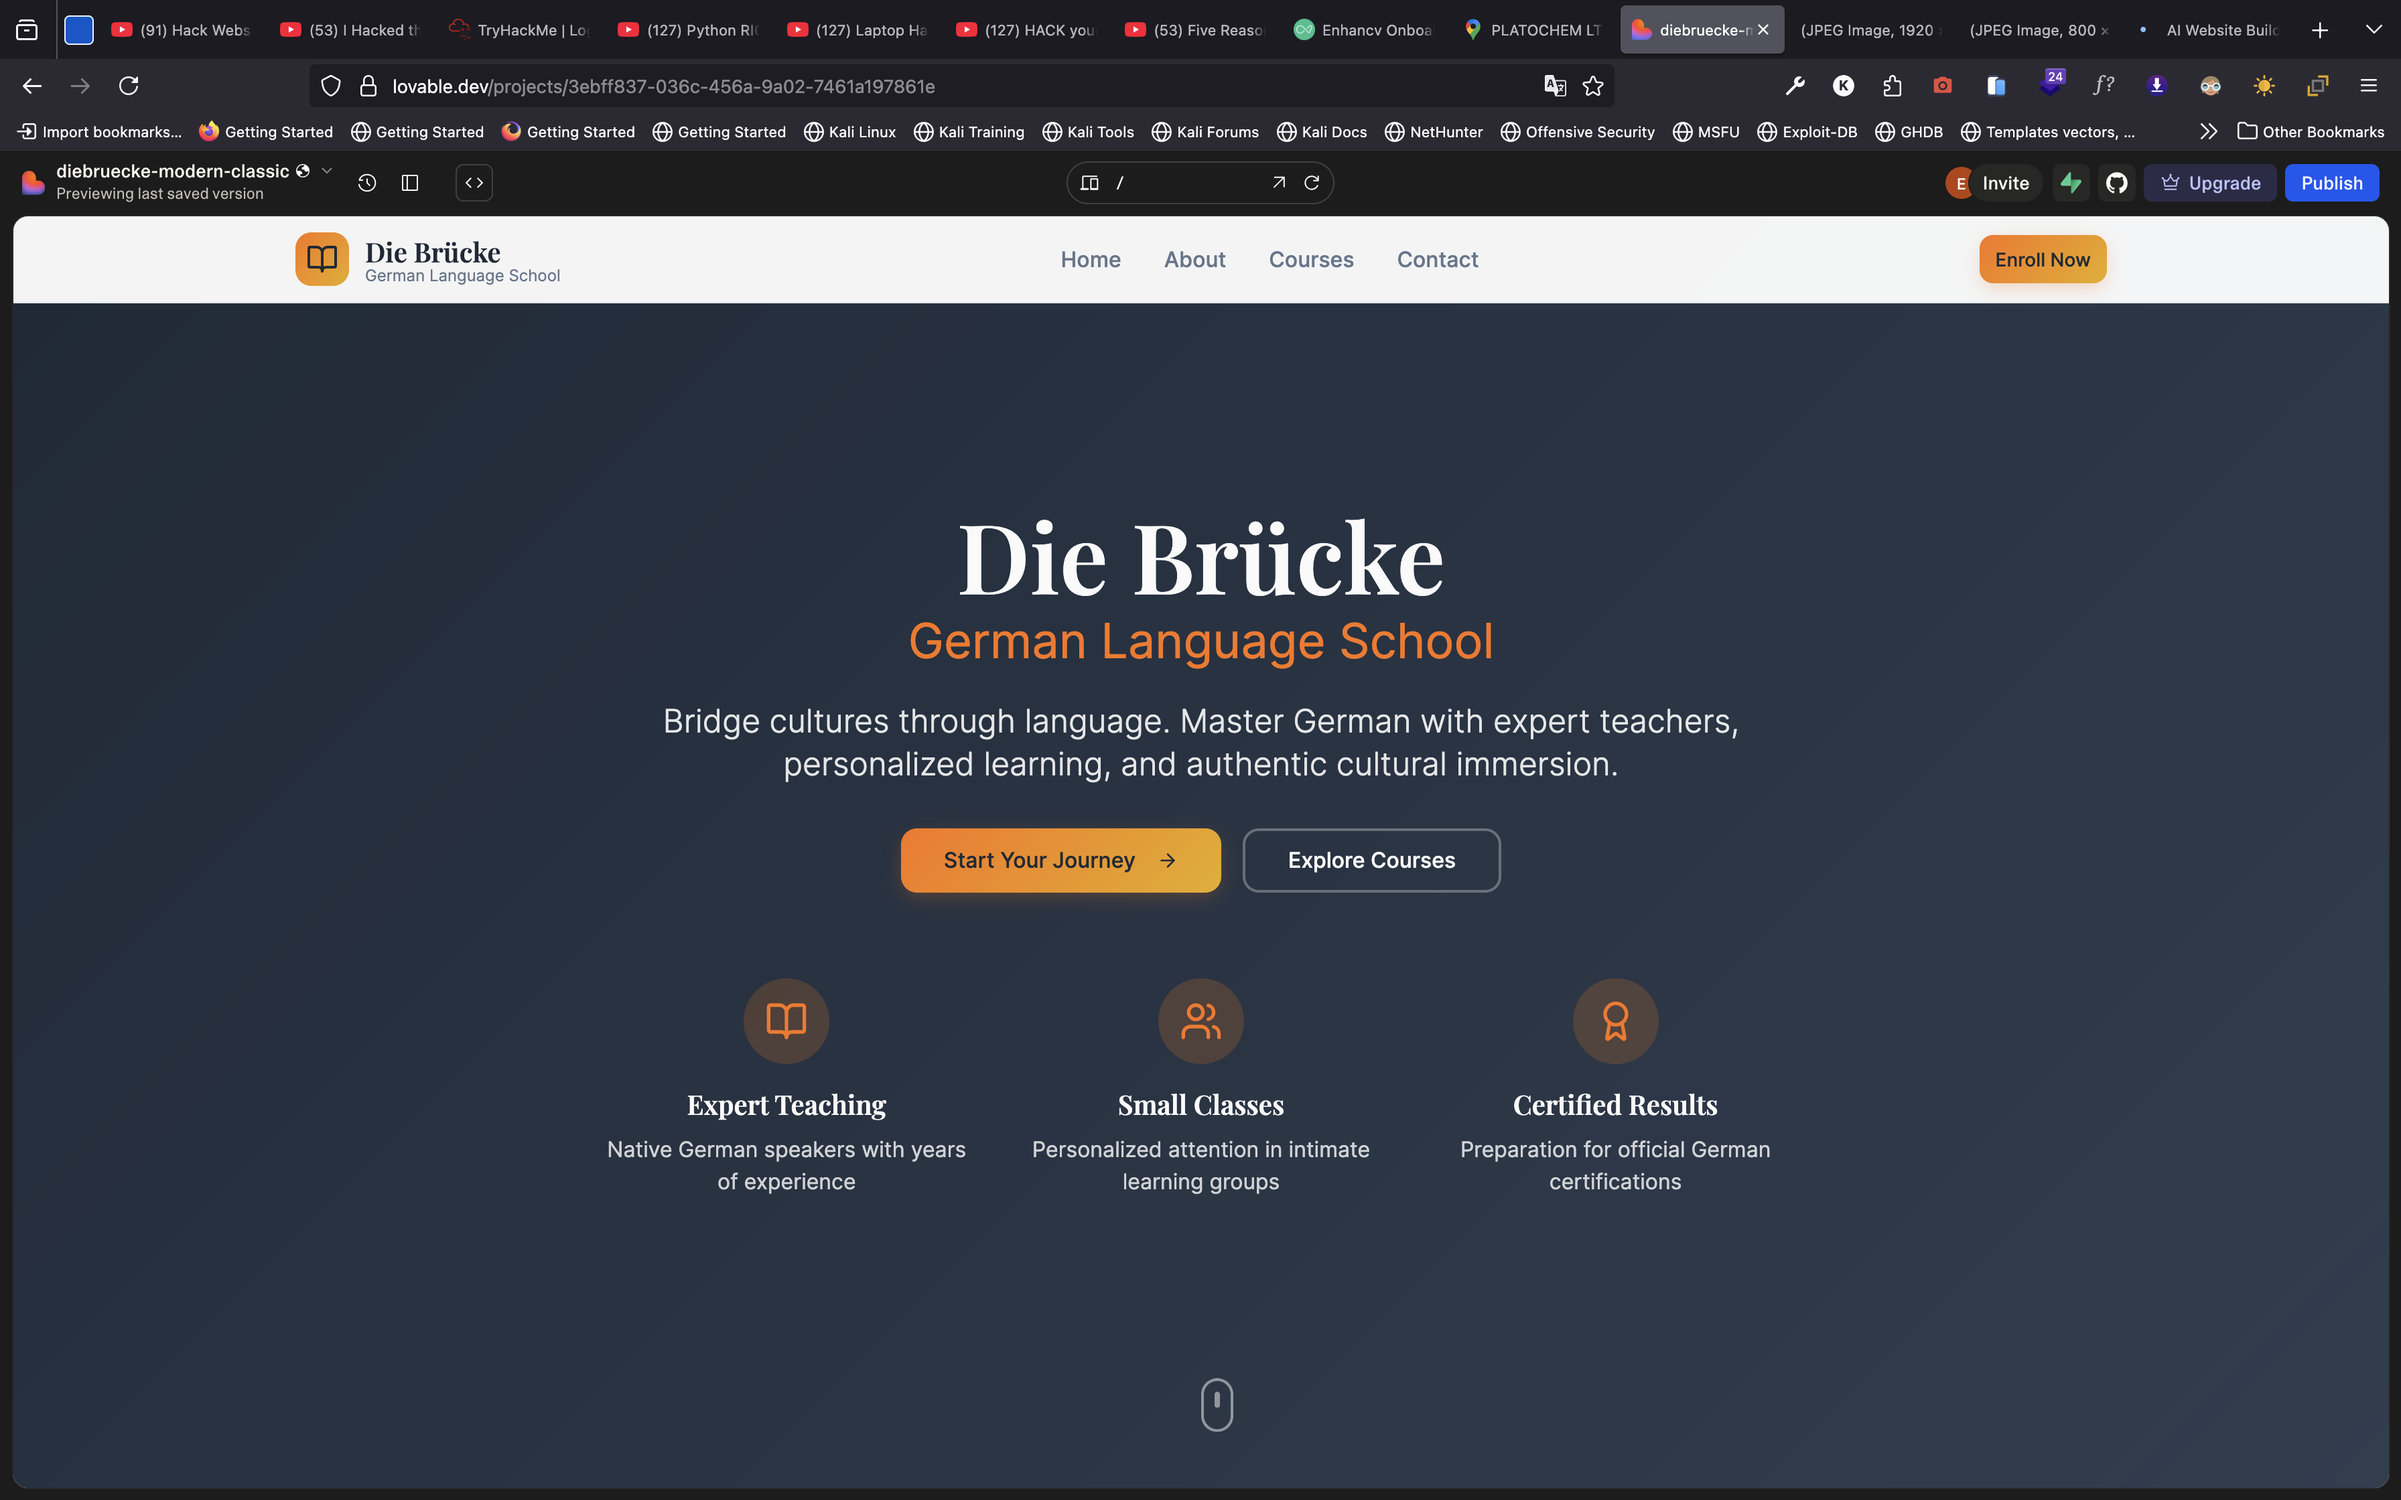
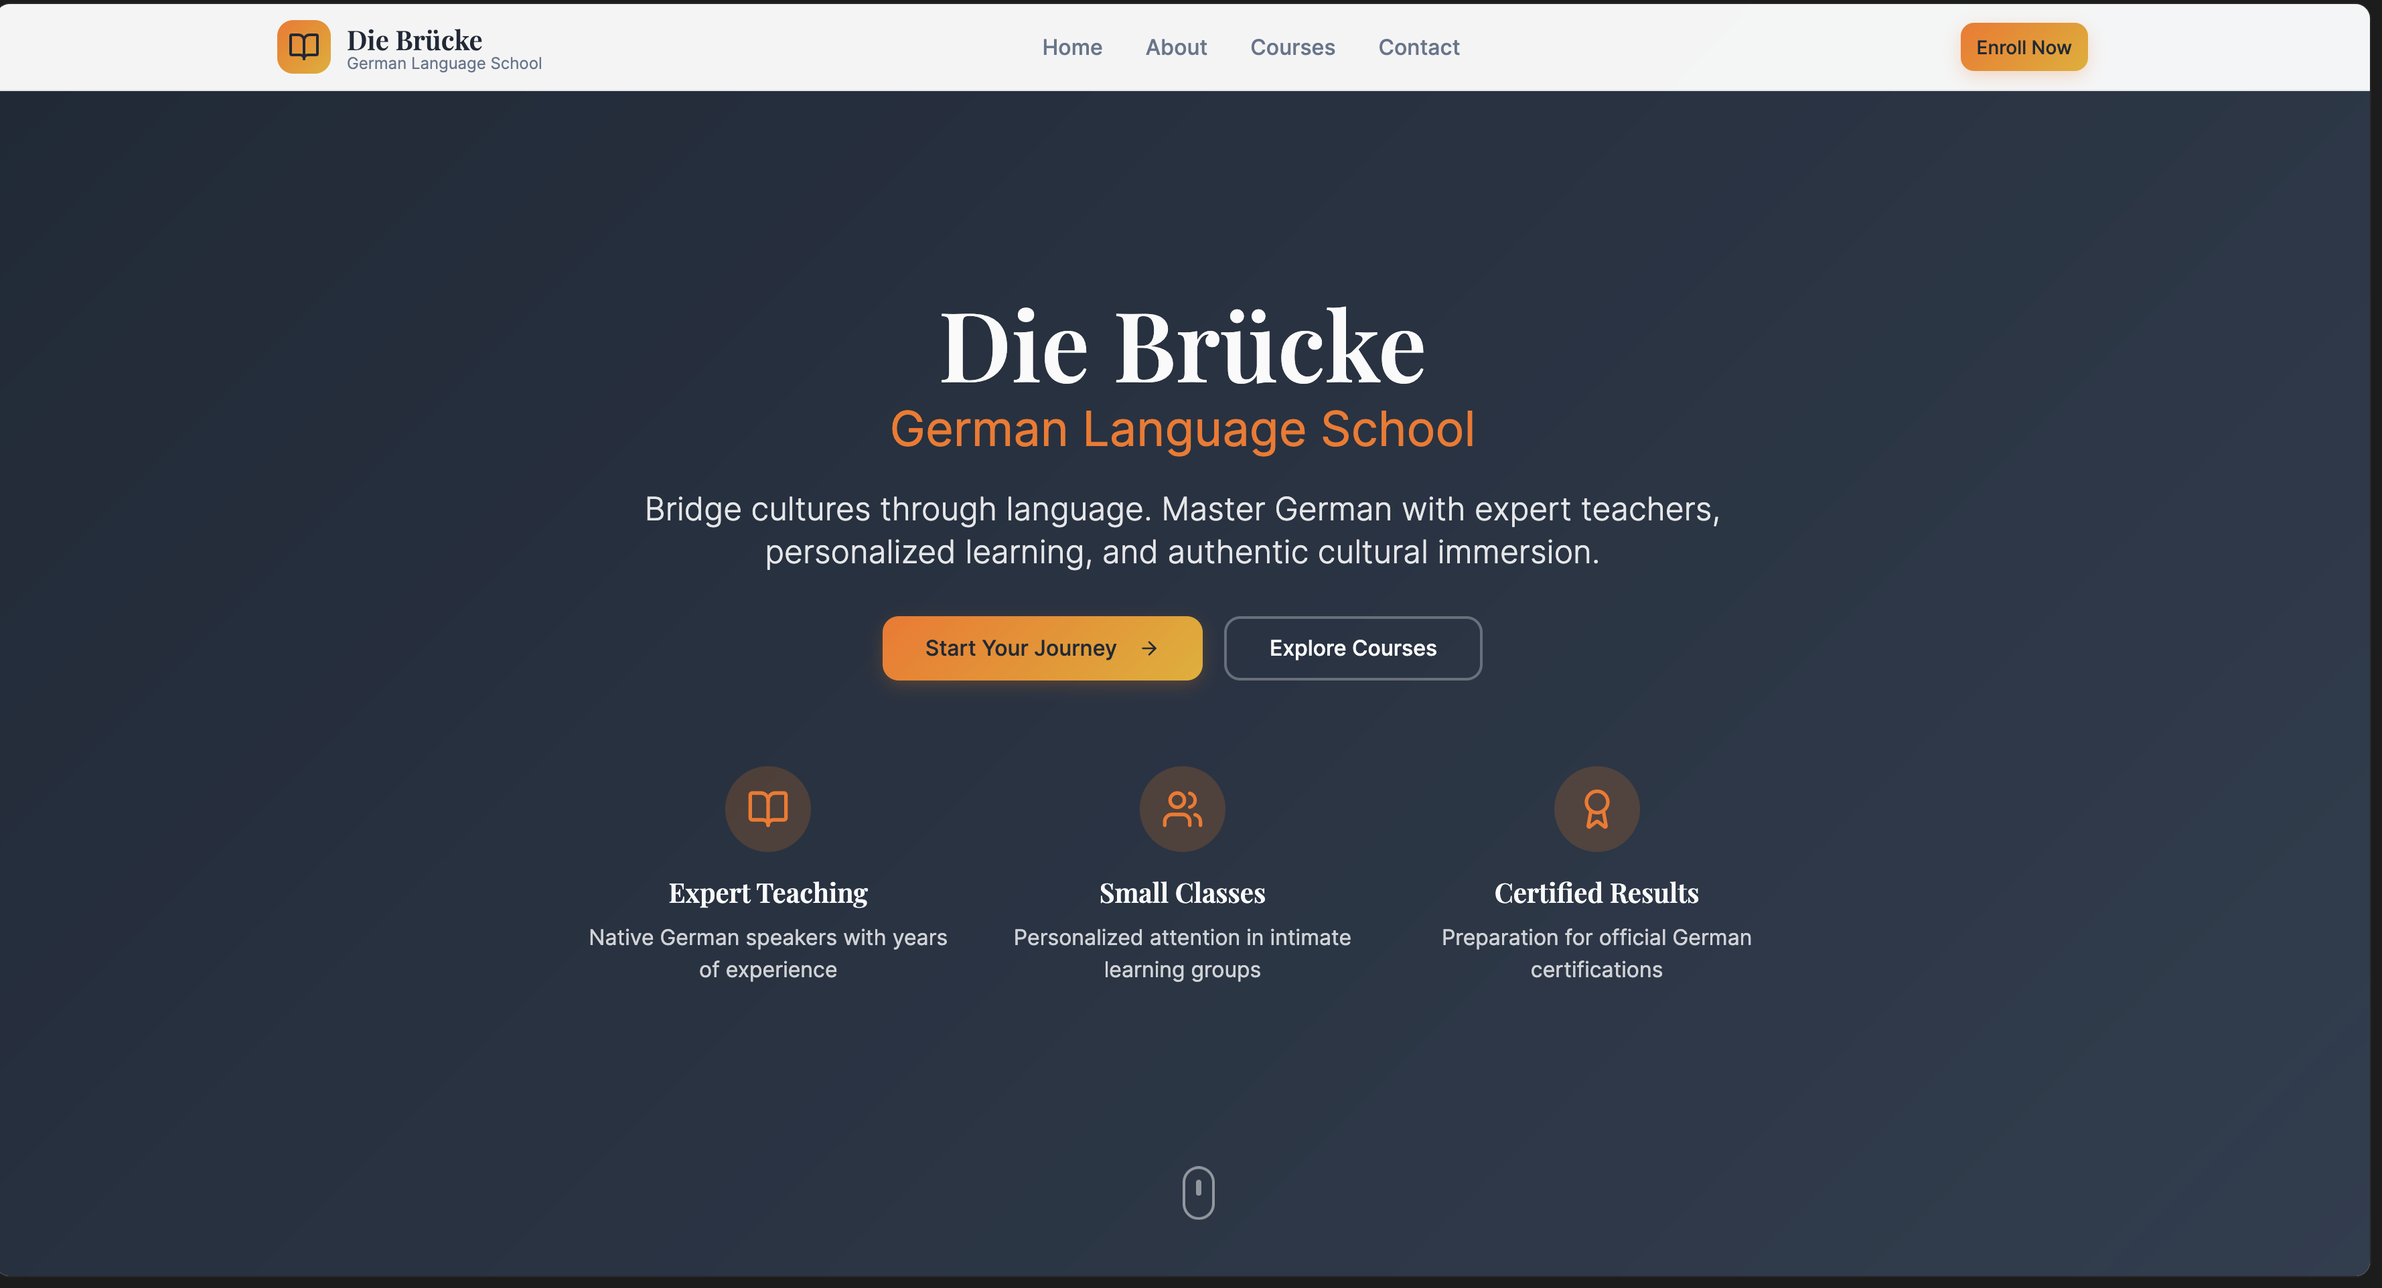
Just added more details and buttons

diff --git a/index.css b/index.css
@@ -43,7 +43,7 @@ nav {
     font-family: 'Playfair Display', serif;
     font-size: 1.35rem;
     font-weight: 200;
-    color: #0077b6;
+    color: #3586b2;
     letter-spacing: 0.01em;
     white-space: nowrap;
 }
@@ -104,6 +104,63 @@ nav {
 }
 
 .enroll-btn:hover {
+    background: linear-gradient(90deg, #00b4d8 0%, #0077b6 100%);
+    transform: translateY(-2px) scale(1.04);
+}
+
+h1
+{
+    
+    font-family: 'Playfair Display', serif;
+    font-size: 2.5rem;
+    color: #222;
+    text-align: center;
+    margin-top: 3rem;
+}
+h2
+{
+    font-family: 'Playfair Display', serif;
+    font-size: 1.8rem;
+    color: #222;
+    text-align: center;
+    margin-top: 1rem;
+}
+p
+{
+    font-family: 'Inter', Arial, sans-serif;
+    font-size: 1.1rem;
+    color: #555;
+    text-align: center;
+    margin-top: 1rem;
+    line-height: 1.6;
+    max-width: 600px;
+    margin-left: auto;
+    margin-right: auto;
+}
+
+.button-group 
+{
+    display: flex;
+    justify-content: center;
+    gap: 1.5rem;
+    margin-top: 2rem;
+}
+.button-group button 
+{
+    background: linear-gradient(90deg, #0077b6 0%, #00b4d8 100%);
+    color: #fff;
+    border: none;
+    border-radius: 24px;
+    padding: 0.7rem 1.7rem;
+    font-size: 1.1rem;
+    font-weight: 600;
+    cursor: pointer;
+    box-shadow: 0 2px 8px rgba(0,183,221,0.08);
+    transition: background 0.2s, transform 0.2s;
+    outline: none;
+}
+.button-group button:hover 
+{
     background: linear-gradient(90deg, #00b4d8 0%, #0077b6 100%);
     transform: translateY(-2px) scale(1.04);
 }

diff --git a/Index.html b/Index.html
@@ -33,9 +33,15 @@
     </nav>
     <main>
 
-        <h1>Welcome to Die Brücke German Language School</h1>
-        <p>Bridge cultures through language at Die Brücke German Language School. Expert instruction,</p>
+        <h1> Die Brücke </h1>
+        <h2> German Language School </h2>
+        <p>Bridge cultures through language. Master German with expert teachers,<br>personalized learning, and authentic cultural immersion.</p>
         <!-- Main content can go here -->
+         <div class="button-group">
+              <button type="button">Start your Journey</button>
+              <button type="button2"> Explore Courses</button>
+         </div>
+       
     </main>
     <script src="index.js"></script>
 </body>
